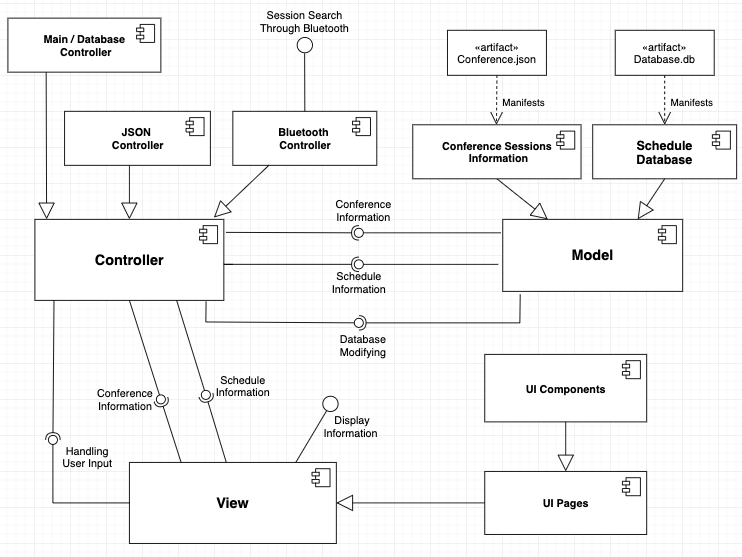
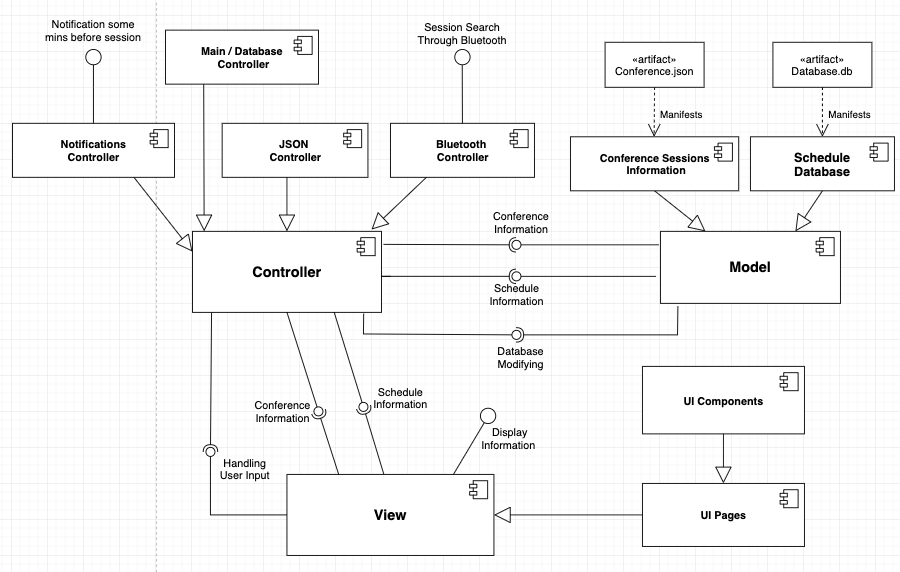
Notifications done

diff --git a/AMA/lib/controller/notifs/NotifsController.dart b/AMA/lib/controller/notifs/NotifsController.dart
@@ -3,12 +3,11 @@ import 'package:ama/controller/database/DatabaseMapper.dart';
 import 'package:ama/model/Session.dart';
 import 'package:flutter/material.dart';
 import 'package:flutter_local_notifications/flutter_local_notifications.dart';
-import 'package:intl/intl.dart';
 
 class NotifsController {
     static NotifsController _instance;
     FlutterLocalNotificationsPlugin _flutterLocalNotificationsPlugin;
-    BuildContext _context;
+    GlobalKey<NavigatorState> _navKey;
 
     static NotifsController instance() {
       if (_instance == null) _instance = new NotifsController();
@@ -21,8 +20,8 @@ class NotifsController {
     }
 
 
-    init(BuildContext context) {
-      this._context = context;
+    init(GlobalKey<NavigatorState> key) {
+      this._navKey = key;
       var initializationSettingsAndroid = new AndroidInitializationSettings('amalogo');
       var initializationSettingsIOS = IOSInitializationSettings(onDidReceiveLocalNotification: _onDidReceiveLocalNotification);
       var initializationSettings = InitializationSettings(initializationSettingsAndroid, initializationSettingsIOS);
@@ -31,13 +30,13 @@ class NotifsController {
 
     Future _onSelectNotification(String payload) async {
       if (payload != null) {
-        Navigator.pushNamed(this._context, '/sessionScreen', arguments: await DatabaseMapper.getSession(DatabaseController().getDatabase(), payload));
+        this._navKey.currentState.pushNamed('/sessionScreen', arguments: await DatabaseMapper.getSession(DatabaseController().getDatabase(), payload));
       }
     }
 
     Future _onDidReceiveLocalNotification(int id, String title, String body, String payload) async {
       if (payload != null) {
-        Navigator.pushNamed(this._context, '/sessionScreen', arguments: await DatabaseMapper.getSession(DatabaseController().getDatabase(), payload));
+        this._navKey.currentState.pushNamed('/sessionScreen', arguments: await DatabaseMapper.getSession(DatabaseController().getDatabase(), payload));
       }
     }
 
@@ -46,7 +45,6 @@ class NotifsController {
         return;
 
       var scheduledNotificationDateTime = session.startTime.subtract(new Duration(minutes: 10));
-      print(new DateFormat.yMd().add_jm().format(scheduledNotificationDateTime));
 
       var androidPlatformChannelSpecifics =
       new AndroidNotificationDetails('channel id', 'channel name', 'channel description');
@@ -64,6 +62,10 @@ class NotifsController {
 
     Future removeNotificationForSession(Session session) async {
       await _flutterLocalNotificationsPlugin.cancel(session.key.hashCode);
+    }
+
+    Future<NotificationAppLaunchDetails> getDetails() async {
+      return await this._flutterLocalNotificationsPlugin.getNotificationAppLaunchDetails();
     }
 
 }

diff --git a/AMA/lib/controller/Controller.dart b/AMA/lib/controller/Controller.dart
@@ -8,9 +8,11 @@ import 'package:ama/controller/notifs/NotifsController.dart';
 import 'package:ama/model/DayScheduleInfo.dart';
 import 'package:ama/model/Item.dart';
 import 'package:ama/model/Model.dart';
-import 'package:ama/model/Person.dart';
+import 'package:ama/model/Person.dart' as Person;
 import 'package:ama/model/Session.dart';
 import 'package:flutter/material.dart';
+import 'package:flutter_local_notifications/flutter_local_notifications.dart';
+import 'package:sqflite/sqflite.dart';
 import 'json/JsonController.dart';
 
 class Controller {
@@ -105,7 +107,7 @@ class Controller {
         DatabaseController().getDatabase(), dateString);
   }
 
-  Future<List<Person>> getPeopleWithKeys(List<String> peopleKeys) async {
+  Future<List<Person.Person>> getPeopleWithKeys(List<String> peopleKeys) async {
     return await DatabaseMapper.getPeopleWithKeys(
         DatabaseController().getDatabase(), peopleKeys);
   }
@@ -113,6 +115,10 @@ class Controller {
   Future<List<Item>> getItemsWithKeys(List<String> itemKeys) async {
     return DatabaseMapper.getItemWithKeys(
         DatabaseController().getDatabase(), itemKeys);
+  }
+
+  Future<Session> getSessionWithKey(String sessionKey) async {
+    return DatabaseMapper.getSession(DatabaseController().getDatabase(), sessionKey);
   }
 
   // ----------------------------
@@ -182,8 +188,12 @@ class Controller {
   // notification methods
   // ----------------------------
 
-  void initNotifsController(BuildContext context) {
-    NotifsController.instance().init(context);
+  void initNotifsController(GlobalKey<NavigatorState> navKey) {
+    NotifsController.instance().init(navKey);
+  }
+
+  Future<NotificationAppLaunchDetails> getAppLaunchDetails() async {
+    return NotifsController.instance().getDetails();
   }
 
 }

diff --git a/AMA/lib/view/screens/DaysScreen.dart b/AMA/lib/view/screens/DaysScreen.dart
@@ -1,10 +1,33 @@
+import 'package:ama/controller/Controller.dart';
 import 'package:ama/view/screens/MainScreenPager.dart';
 import 'package:flutter/material.dart';
 import '../../constants/AppColors.dart' as AppColors;
 
-class DaysScreen extends StatelessWidget {
+class DaysScreen extends StatefulWidget {
+  @override
+  State<DaysScreen> createState() {
+    return DaysScreenState();
+  }
+}
+
+
+class DaysScreenState extends State<DaysScreen> {
+
+  @override
+  void initState() {
+    super.initState();
+    Controller.instance().getAppLaunchDetails().then((details) {
+      if(details.didNotificationLaunchApp && (details.payload != null)) {
+        Controller.instance().getSessionWithKey(details.payload).then((session) {
+          Navigator.pushNamed(context, '/sessionScreen', arguments: session);
+        });
+      }
+    });
+  }
+
   @override
   Widget build(BuildContext context) {
+
     return Scaffold(
         appBar: AppBar(
           title: Text(

diff --git a/AMA/lib/view/screens/InitialLoadingScreen.dart b/AMA/lib/view/screens/InitialLoadingScreen.dart
@@ -8,7 +8,7 @@ import '../../constants/Utility.dart' as Utility;
 
 class InitialLoadingScreen extends StatefulWidget {
   @override
-  State<StatefulWidget> createState() {
+  State<InitialLoadingScreen> createState() {
     return InitialLoadingScreenState();
   }
 }
@@ -18,8 +18,9 @@ class InitialLoadingScreenState extends State<InitialLoadingScreen> {
   void initState() {
     super.initState();
     Controller.instance().initDatabase().then((success) {
-        if(success)
+        if(success) {
           Navigator.of(context).pushReplacementNamed('/homeScreen');
+        }
         else
           _noInternetAlert(context);
     });

diff --git a/AMA/lib/main.dart b/AMA/lib/main.dart
@@ -17,17 +17,22 @@ void main(List<String> args) {
   });
 
   parser.parse(args);
+
   runApp(MyApp());
 }
 
 class MyApp extends StatelessWidget {
 
+  final navigatorKey = new GlobalKey<NavigatorState>();
+
   @override
   Widget build(BuildContext context) {
-    Controller.instance().initNotifsController(context);
+
+    Controller.instance().initNotifsController(navigatorKey);
 
     return MaterialApp(
       title: 'Flutter Demo',
+      navigatorKey: navigatorKey,
       theme: ThemeData(
         primarySwatch: Colors.blue,
       ),
